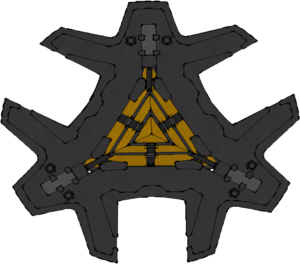
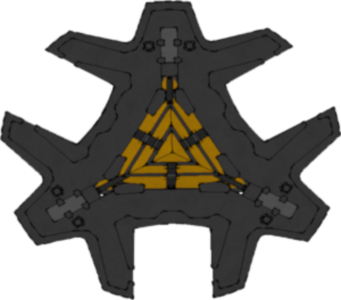
wip

diff --git a/game/client/ship/Hatak.js b/game/client/ship/Hatak.js
@@ -2,6 +2,7 @@
 class Hatak extends BaseShip {
     constructor() {
         super();
+        this.bearing = 0;
         this.image_body = ressources.SPACESHIP_6;
     }
 
@@ -10,6 +11,10 @@ class Hatak extends BaseShip {
     }
 
     drawShipBody(pos, bearing, draw_thrusters) {
-        this.image_body.drawCenterAt(pos.x, pos.y, bearing);
+        this.image_body.drawCenterAt(pos.x, pos.y, this.bearing);
+    }
+
+    onUpdate(time_elapsed) {
+        this.bearing += 0.2 * time_elapsed; // visual body rotation
     }
 }

diff --git a/game/client/entity/BaseEntityShip.js b/game/client/entity/BaseEntityShip.js
@@ -12,6 +12,7 @@ class BaseEntityShip extends BaseEntity {
 
     onUpdate(time_elapsed) {
         super.onUpdate(time_elapsed);
+        this.ship.onUpdate(time_elapsed);
         this.bearing = this.s_bearing;
         var screen_pos = this.getScreenPos();
 

diff --git a/game/client/ship/BaseShip.js b/game/client/ship/BaseShip.js
@@ -43,4 +43,8 @@ class BaseShip {
         this.drawHp(pos, hp_percent);
         this.drawName(pos, name);
     }
+
+    onUpdate(time_elapsed) {
+        // can be overriden
+    }
 }
